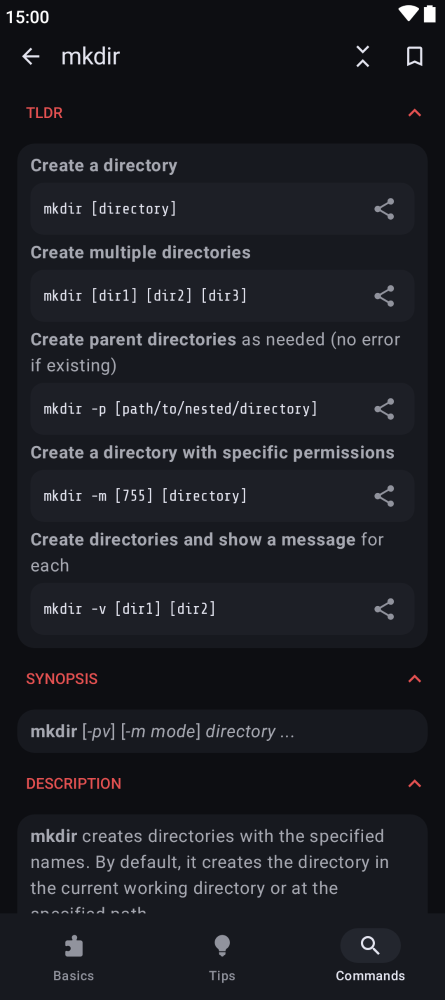
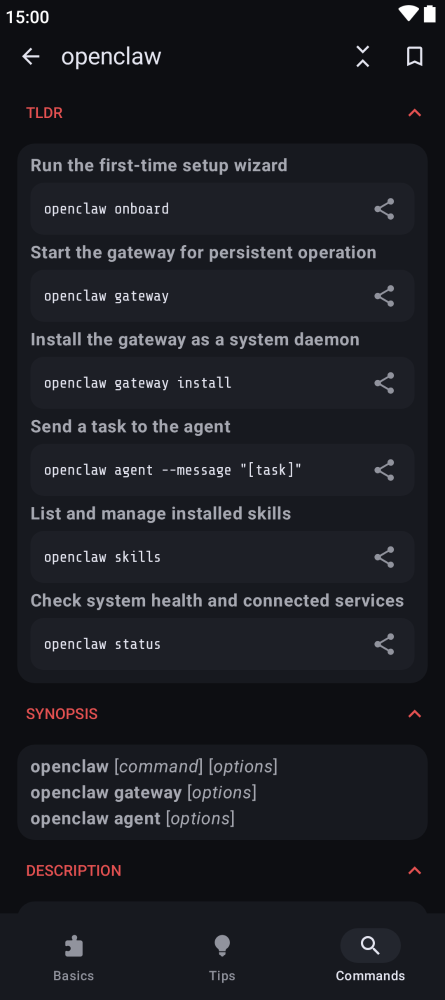
Update store screenshots

diff --git a/screenshotTests/src/test/kotlin/com/linuxcommandlibrary/app/screenshots/TabletScreenshotTest.kt b/screenshotTests/src/test/kotlin/com/linuxcommandlibrary/app/screenshots/TabletScreenshotTest.kt
@@ -42,11 +42,15 @@ class TabletScreenshotTest {
         }
     }
 
-    @Test fun screen01_mkdir() = snap(dark = true, deeplink = "/man/mkdir")
+    @Test fun screen01_openclaw() = snap(dark = true, deeplink = "/man/openclaw")
 
     @Test fun screen02_tips() = snap(dark = false, deeplink = "/tips")
 
     @Test fun screen03_systemInfo() = snap(dark = true, deeplink = "/basic/systeminformation")
 
     @Test fun screen04_search() = snap(dark = false, deeplink = "/search/mk")
+
+    @Test fun screen05_basics() = snap(dark = true, deeplink = "/basics")
+
+    @Test fun screen06_commands() = snap(dark = false, deeplink = "/")
 }

diff --git a/screenshotTests/src/test/kotlin/com/linuxcommandlibrary/app/screenshots/PhoneScreenshotTest.kt b/screenshotTests/src/test/kotlin/com/linuxcommandlibrary/app/screenshots/PhoneScreenshotTest.kt
@@ -41,11 +41,15 @@ class PhoneScreenshotTest {
         }
     }
 
-    @Test fun screen01_mkdir() = snap(dark = true, deeplink = "/man/mkdir")
+    @Test fun screen01_openclaw() = snap(dark = true, deeplink = "/man/openclaw")
 
     @Test fun screen02_tips() = snap(dark = false, deeplink = "/tips")
 
     @Test fun screen03_systemInfo() = snap(dark = true, deeplink = "/basic/systeminformation")
 
     @Test fun screen04_search() = snap(dark = false, deeplink = "/search/mk")
+
+    @Test fun screen05_basics() = snap(dark = true, deeplink = "/basics")
+
+    @Test fun screen06_commands() = snap(dark = false, deeplink = "/")
 }
